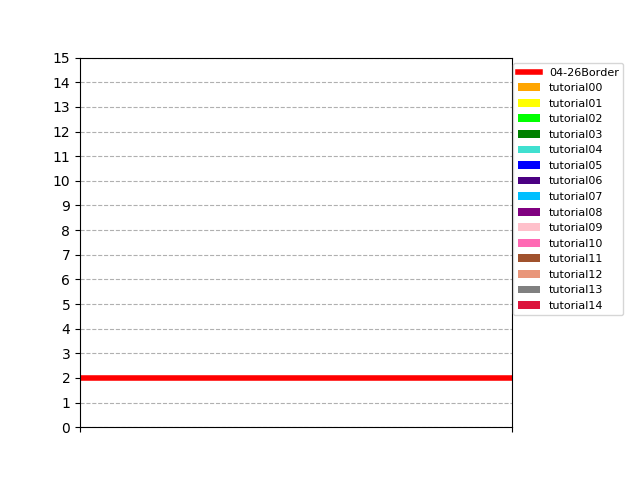
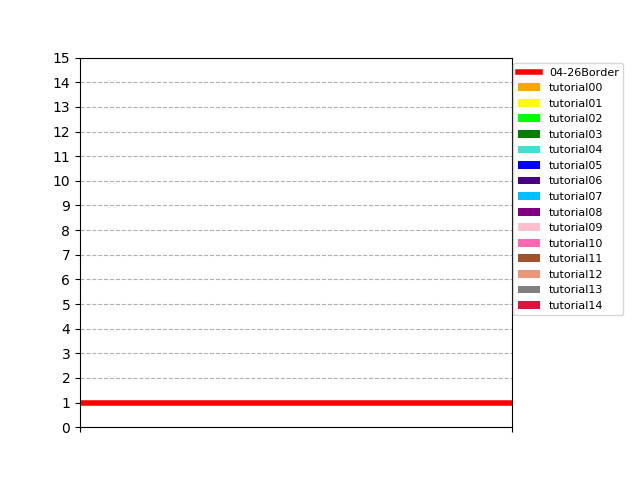
pngUpdate

Changed region(s): [[0.125, 0.7812, 0.8125, 0.8438]]

diff --git a/ando/make_progress.py b/ando/make_progress.py
@@ -26,8 +26,8 @@ for name in sorted([f for f in os.listdir("../") if os.path.isdir(f)]):
     for num, maxcount in zip(range(15), maxcounts):
         count = 0
         chapter = '{0:02d}'.format(num)
-        if chapter in os.listdir(name):
-            for script in os.listdir(os.path.join(name, chapter)):
+        if chapter in os.listdir("../"+name):
+            for script in os.listdir(os.path.join("../"+name, chapter)):
                 count += 1 if re.match(r'.+\.py', script) else 0
         score.append(min([count / maxcount, 1.0]))
 
@@ -48,7 +48,7 @@ for i in range(npscore.shape[1]):
 today = datetime.date.today()
 #today = datetime.date(2017, 8, 2)
 date_list = list()
-date_list.append(datetime.date(2019, 4, 19))
+#date_list.append(datetime.date(2019, 4, 19))
 date_list.append(datetime.date(2019, 4, 26))
 date_list.append(datetime.date(2019, 5, 10))
 date_list.append(datetime.date(2019, 5, 17))
@@ -62,7 +62,7 @@ date_list.append(datetime.date(2019, 7, 5))
 date_list.append(datetime.date(2019, 7, 12))
 date_list.append(datetime.date(2019, 7, 19))
 date_list.append(datetime.date(2019, 7, 26))
-#date_list.append(datetime.date(2019, 8, 6))
+date_list.append(datetime.date(2019, 8, 2))
 
 
 for i, d in enumerate(date_list):

diff --git a/README.md b/README.md
@@ -23,4 +23,4 @@
 6. `git push`
 
 ## みんなの進捗
-![progress](https://github.com/tmu-nlp/NLPtutorial2019/blob/master/progress.png) 
+![progress](https://github.com/tmu-nlp/NLPtutorial2019/blob/master/ando/progress.png) 
